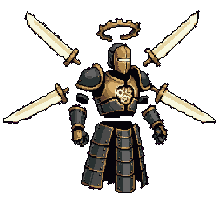
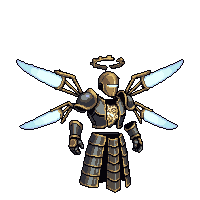
V8 F4 R324: hollow_seraph/boss_idle regenerated (hilt-less blades of cold light, floating empty armour), self-approved with nits; --move-rig + --prune (state C)

diff --git a/docs/ROSTER_LOG.md b/docs/ROSTER_LOG.md
@@ -851,10 +851,11 @@ approval (2026-11-16, `REDESIGN_PLAN.md` 6); attempts over 3 on a sheet cite D-U
 HLS L >= 0.55 and S >= 0.40 (strict) and, as the plan's "the new cut's equivalent", any glow colour with S >= 0.40 and a
 relative luminance >= that of R290's accepted (173, 189, 99) (Y 179); both numbers are given.
 
-Images used: 31 of 50 (ledger guard: 398 - 367; V8 halt 47).
+Images used: 32 of 50 (ledger guard: 399 - 367; V8 halt 47).
 
 | # | Sheet (seed) | n | Measured result | Decision |
 |---|---|---|---|---|
 | R321 | crazy_horse/monster_large (1235, key `c27aaedec151d608f5e3c33f`, `--retry`, pass-V attempt 2 of 5 (`sheet_caps` 5 pending FW-V8; within the default 3), V8 attempt 1; archive `crazy_horse_v2` 089adcc, `selftest_retire.py` PASSED) | 1 | The F1 text: an otherworldly beast with a **bare pale horse-skull head** (empty sockets, a large glowing yellow-green eye), **the ribs showing through the ash-grey hide**, a **tall ridge of long bone spines** along neck and back, wide jagged cracks blazing yellow-green on neck, flanks and legs **in all three poses**, a thick curling smoke mane and tail with embers inside the smoke, and **the lower legs dissolving into curling black smoke instead of hooves**, the smoke on the ground; facing right in every cell. Heights 97 / 73 / 89 (large band 96-120), feet on row 122, 132 px cells (widened), x 17-125 / 3-129 / 2-121, no border pixels, binary alpha, 16 colours with the outline ink, `pose_diff` 0.88 / 0.65, `edges_ok`, no grid (area-averaged, scale 1.157), `clipped []`. **G1a** glow px idle / attack / hurt: strict 15 / 30 / 15; with the cut's main glow colour (198, 214, 57) (HLS L 0.53, Y 199 > 179) **65 / 84 / 89** (R290: 2 / 8 strict). **G1b** eye (one visible in side view): idle 6 px, attack 8 px of (198, 214, 57) / (222, 214, 74). **G1c** non-equine at 1x in all 3 keys: the bare skull, the smoke legs, the tall spine ridge, the ribs. **G1d** roster scores vs `nightmare` silhouette 0.66 / edge 0.26 (flag >= 0.85 and >= 0.60), vs `crazy_horse_v1` 0.68 / 0.41, vs `crazy_horse_v2` 0.66 / 0.40; side by side (1x and 2x): bone-white skull and ash hide vs nightmare's glossy black and blue flame. Attack = a low lunge with the skull jaw open; hurt = knocked back onto its haunches, a foreleg buckling. Nits: the attack is low (73 px, `height_ok` false, as R290's 69); the hurt sinks onto the hind legs (a sit-back rather than a stagger); the strict HLS glow count is below 60 (the cut's glow ramp is a saturated yellow-green with low blue, so its HLS L is 0.53); a few raw embers in open air are dropped | **self-approved with nits**; `retire.py --move-rig crazy_horse` in the same commit (state C) |
 | R322 | piscodemon/monster_small (1235, key `6f1c2bfe329b445d48e053bf`, `--retry`, pass-V attempt 2 of 3, V8 attempt 1; archive `piscodemon_v2` cf76473, `selftest_retire.py` PASSED; budget with `sheet_caps` merged from `roster-int` 92836c8 at 92ca2da, `selftest_passv.py` ALL PASSED) | 1 | The F2 text reads in the raw: the same squat octopus-headed horror in dark sea green and near-black slate, **two narrow slanted yellow-orange eyes under a heavy brow** (menacing, no round pale eye), dark grey-green shell plates. Cut: heights 74 / 74 / 74, feet on row 76, 80 px cells, x 14-65 / 6-67 / 6-60, no border pixels, binary alpha, 10 colours with the outline ink, `edges_ok`. **G2a** yes: the eye colour (222, 165, 74) (H 37, S 0.69) is 9 / 9 / 11 px, eyes only. **G2b fails:** the strands merge in the 10-colour cut, only 3-4 tentacle tips separately visible at 4x in the idle and the attack; and the attack is nearly an idle copy (`pose_diff` 0.32 / 0.64) | **rejected**; retry (seed 1236): the head turned three-quarters to the viewer, "six long thick tentacles fanned wide apart like spread fingers with clear gaps of background between them, each ending in its own curled tip", the attack "a low lunge, the whole body leaning far forward and down, the head pushed out ahead of the body ... clearly a different pose from the idle" |
 | R323 | piscodemon/monster_small (1236, key `0ce22ed29368387b4c8a8675`, `--retry`, pass-V attempt 3 of 3, V8 attempt 2 of 2; the R322 rewording) | 1 | A menacing squat deep-sea horror: a dark ridged octopus-mantle head with deep shadows, **two narrow slanted glowing yellow-orange eyes under a heavy brow** (the only light accent), long face tentacles, dark grey-green shell plates on the shoulders and forearms, a ribbed chest, webbed claws held close, short bent legs on webbed feet, no robe; facing right. Attack = a real low lunge, the head pushed out, the tentacles fanned toward the heroes; hurt = the head thrown back, the tentacles spread and curling, a claw up. Heights 73 / 66 / 74 (small band 56-72, `height_ok`), feet on row 76, cells 82 px (widened), x 14-66 / 2-79 / 10-66, no border pixels, binary alpha, 10 colours with the outline ink, `pose_diff` 0.74 / 0.68, `edges_ok`. **G2a** yes: (231, 173, 74) (H 38, S 0.77), 7 / 7 / 6 px, all in the two eyes (none elsewhere on the body). **G2b** (tips separately visible at 4x): idle 4-5, attack 5, hurt 4-5: met in the attack, **borderline in the idle and the hurt** (the strands merge near the claws / behind the raised arm); flagged for the IR. **G2c** (generator read; the IR answers at the rig stage): menacing at 1x, yes. Siblings: vs `mindflayer` silhouette 0.52 / edge 0.24 (tall lilac, robe); vs `piscodemon_v1` 0.67 / 0.36 (anglerfish demon); vs `piscodemon_v2` 0.79 / 0.44 (the same body concept by design (F2 keeps R291's design); differs in the eyes, the dark palette and the plates; under the 0.85 / 0.60 flag). Nits: G2b borderline as above; the body is dark (10 colours, a near-black slate head) but the plates and skin edges still read at 1x; the far eye is 1-2 px | **self-approved with nits** (F2 route (a); no fallback paint needed); `retire.py --move-rig piscodemon` in the same commit (state C) |
+| R324 | hollow_seraph/boss_idle (1237, key `9d395ef3e4ceaf8dc4efb1f1`, `--retry`, pass-V attempt 4 of 6 (`sheet_caps`, user D-U1 = b), V8 attempt 1 of 3; archive `hollow_seraph_v2` d9fc652, `selftest_retire.py` PASSED; `cut: {keep_pieces: all_in_cell, fit: headroom, top_margin: 10}` kept) | 1 | The F4 text: **four wings, two per side** (an upper pointing up and out, a lower pointing down and out on each side), **each a long tapering blade of cold white-blue light with no hilt, no cross-guard and no pommel**, set in a brass frame of thin struts joined to the shoulder plate; the faceless brass helm-mask with a glowing white-blue slit, the broken gear-toothed halo in two arcs above it, blackened-steel shoulder plates and cuirass halves with brass trim, a glowing gold gear heart, two gauntlets hovering free beside the skirt (no arms), a long segmented plate skirt split down the middle, nothing below; frontal, symmetric. **138 px** (rows 55-192, boss band 140-168 +-10 %), a 200x200 cell, x 16-183, no border pixels, binary alpha, 16 colours with the outline ink, scale 1.0, `fit` not needed, `clipped []`. **Piece check (rev 13):** render 6 pieces >= 40 px (figure with the 4 wings and the helm, skirt, 2 gauntlets, 2 halo arcs) vs cut 5 (5130, 2406, 424, 342, 98; one halo arc joins the helm outline): every planned piece present. **G4a** no cross-guard / pommel (4x): yes. **G4b** wings, not swords (1x): yes. **G4c** hollow at 1x: partly: the plates are solid (the "open holes" wording was not drawn), but the helm, the gauntlets and the skirt float apart with empty space where neck, arms and legs would be, so it reads as an empty suit of armour; flagged for the IR. Sibling check vs `warmech` and both archives (`hollow_seraph_v1` six feathered wings, `hollow_seraph_v2` cream sword blades): clearly different. Nits: 138 px is smaller than the v2 idle (183) and the lich (184) (276 screen px at scale 2); the plates are solid; the blade glow is a pale cyan ramp (fine at 1x) | **self-approved with nits**; in the same commit `retire.py --move-rig hollow_seraph` and `--prune hollow_seraph boss_attack boss_cast boss_hurt` (state C; no raise exists, D-V9) |
